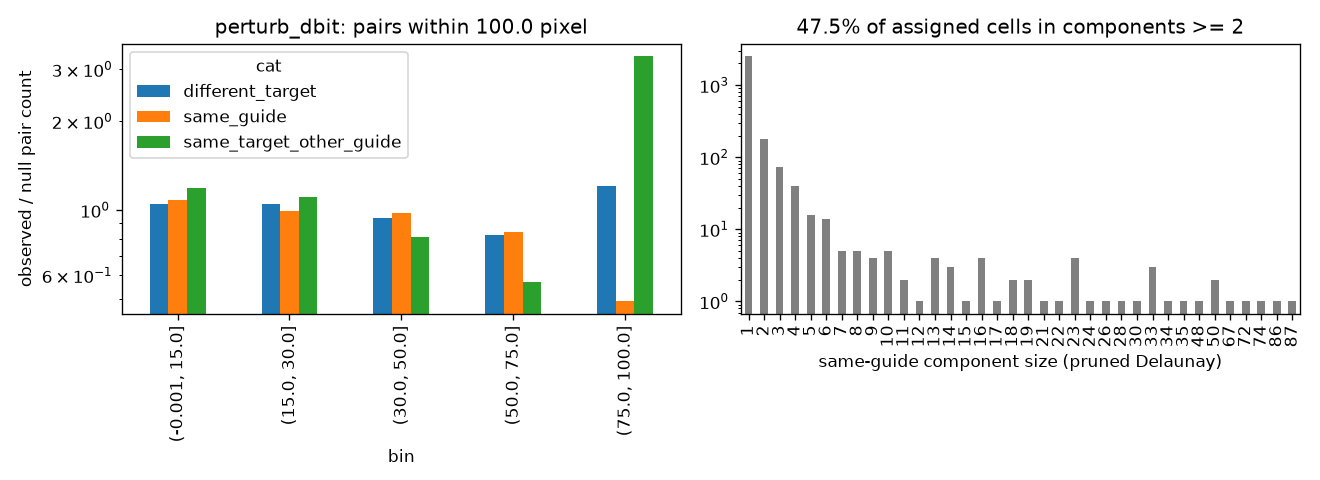
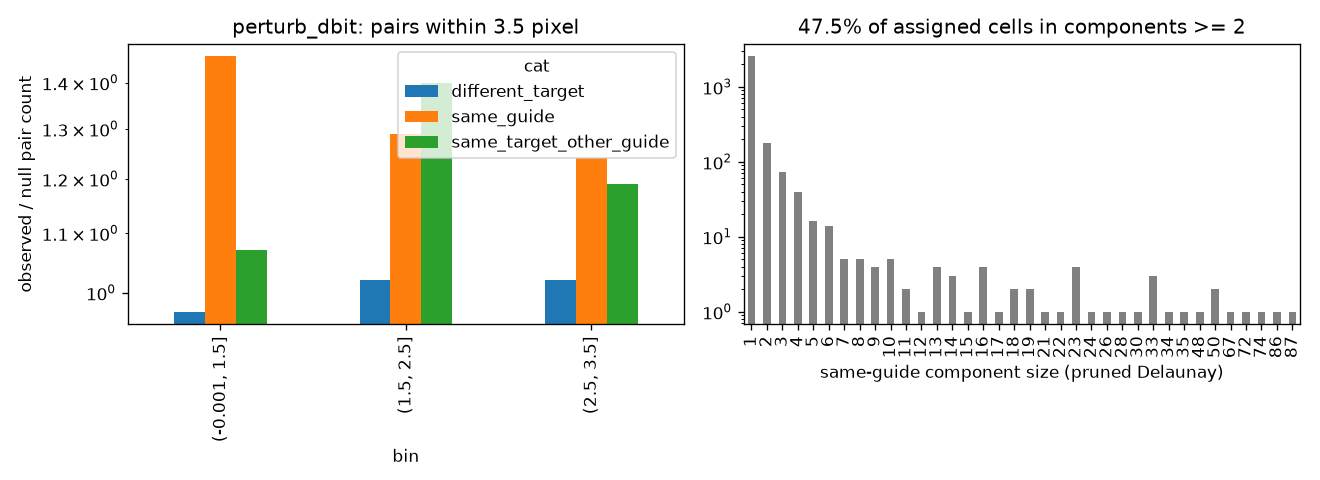
E2: zero ring counts for own-target cells (the A5 fix itself; the previous commit carried only the test and notes)

diff --git a/src/spatialspill/estimators/e2_glm.py b/src/spatialspill/estimators/e2_glm.py
@@ -169,6 +169,9 @@ class E2GLM(Estimator):
             M = np.column_stack(
                 [np.asarray(C[:, k].todense()).ravel() for C in ring_counts]
             )  # n x B
+            # ring coefficients are identified from recipients only: a target cell's own
+            # neighbours (its clone) must not inform the spillover coefficient (amendment A5)
+            M[own] = 0.0
             for grp in groups_out:
                 sel = use if grp == "all" else (use & (ct == grp))
                 if sel.sum() < 2 * self.min_cells:

diff --git a/reports/audit/perturb_dbit/clonality.md b/reports/audit/perturb_dbit/clonality.md
@@ -4,13 +4,11 @@ Exploratory (not pre-registered). Generated by scripts/clonality_analysis.py.
 
 ## Observed / null pair counts by distance bin
 
-| bin            |   different_target |   same_guide |   same_target_other_guide |
-|:---------------|-------------------:|-------------:|--------------------------:|
-| (-0.001, 15.0] |               1.05 |         1.08 |                      1.19 |
-| (15.0, 30.0]   |               1.05 |         0.99 |                      1.11 |
-| (30.0, 50.0]   |               0.94 |         0.98 |                      0.81 |
-| (50.0, 75.0]   |               0.82 |         0.84 |                      0.57 |
-| (75.0, 100.0]  |               1.21 |         0.49 |                      3.33 |
+| bin           |   different_target |   same_guide |   same_target_other_guide |
+|:--------------|-------------------:|-------------:|--------------------------:|
+| (-0.001, 1.5] |               0.97 |         1.46 |                      1.07 |
+| (1.5, 2.5]    |               1.02 |         1.29 |                      1.4  |
+| (2.5, 3.5]    |               1.02 |         1.24 |                      1.19 |
 
 ## Same-guide connected components (pruned Delaunay): 47.5% of assigned cells in components of size >= 2
 
